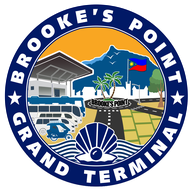
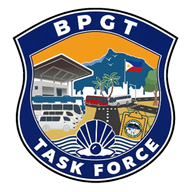
Add files via upload

diff --git a/app.js b/app.js
@@ -97,6 +97,10 @@ document.addEventListener('DOMContentLoaded', init);
 async function init() {
   const hero = document.querySelector('.login-hero');
   if (hero) hero.remove();
+  const fav = document.querySelector('link[rel="icon"]');
+  if (fav && !fav.href.includes('v=tf')) fav.href = 'favicon.png?v=tf';
+  const ati = document.querySelector('link[rel="apple-touch-icon"]');
+  if (ati && !ati.href.includes('v=tf')) ati.href = (ati.getAttribute('href') || 'apple-touch-icon.png').split('?')[0] + '?v=tf';
   seedDemoData();
   BP.API_URL = DB.load().settings.apiUrl || BP.API_URL;
   const verEl = document.getElementById('app-ver');
@@ -329,6 +333,51 @@ function bindView() {
 }
 
 /* ================================================================ shared = */
+const TEAM_DUTY_DAYS = {
+  Alpha: [1, 2, 3, 4],     // Monday – Thursday
+  Zulu:  [5, 6, 0, 1]      // Friday – Monday
+};
+const TEAM_DUTY_LABEL = {
+  Alpha: 'Mon–Thu',
+  Zulu:  'Fri–Mon'
+};
+const TEAM_DUTY_FULL = {
+  Alpha: 'Monday – Thursday',
+  Zulu:  'Friday – Monday'
+};
+
+function isTeamOnDuty(team, isoDate = U.today()) {
+  const d = U.parseISO(isoDate);
+  if (!d || isNaN(d)) return true;
+  const dow = d.getDay();
+  const days = TEAM_DUTY_DAYS[team];
+  return days ? days.includes(dow) : true;
+}
+
+function dutyTeamsForDate(isoDate = U.today()) {
+  return ['Alpha', 'Zulu'].filter(t => isTeamOnDuty(t, isoDate));
+}
+
+function nextDutyDateForTeam(team, fromIso = U.today()) {
+  const base = U.parseISO(fromIso);
+  for (let i = 0; i < 8; i++) {
+    const d = new Date(base.getFullYear(), base.getMonth(), base.getDate() + i);
+    const ds = U.iso(d);
+    if (isTeamOnDuty(team, ds)) return ds;
+  }
+  return fromIso;
+}
+
+function dutyBadge(isoDate = U.today()) {
+  const teams = dutyTeamsForDate(isoDate);
+  const dayName = U.weekday(isoDate).slice(0, 3);
+  if (teams.length === 1) {
+    const t = teams[0];
+    return `<span class="badge team-${U.esc(t)}">On duty (${U.esc(dayName)}): ${U.esc(t)} Team (${U.esc(TEAM_DUTY_LABEL[t])})</span>`;
+  }
+  return `<span class="badge">On duty (${U.esc(dayName)}): Alpha &amp; Zulu Teams</span>`;
+}
+
 function periodBadge() {
   const p = Monthly.currentPeriod();
   return `<span class="badge gold">Period ${U.esc(p.label)}</span>`;
@@ -373,7 +422,11 @@ function viewDashboard() {
   const mine = isMember() ? all.filter(r => r.memberId === u.id) : all;
   const todayRep = all.filter(r => r.date === U.today());
 
-  const teamMembers = API.users().filter(x => x.role === 'member' && (isMember() ? x.team === u.team : true));
+  const teamMembers = API.users().filter(x => x.role === 'member' && (isMember() ? x.team === u.team : true))
+    .sort((a, b) => (isTeamOnDuty(b.team, U.today()) ? 1 : 0) - (isTeamOnDuty(a.team, U.today()) ? 1 : 0));
+  const onDutyTodayMembers = teamMembers.filter(m => isTeamOnDuty(m.team, U.today()));
+  const dutyTargetCount = onDutyTodayMembers.length || teamMembers.length;
+  const dutyTeamsToday = dutyTeamsForDate(U.today());
   const submittedToday = new Set(todayRep.map(r => r.memberId));
   const pending = all.filter(r => r.status === 'submitted').length;
   const violations = U.sum(mine, r => (r.rows || []).filter(x => x.violation).length);
@@ -418,8 +471,8 @@ function viewDashboard() {
   <div class="view-head">
     <div style="min-width:0">
       <h2>${greet}, ${U.esc(u.name.split(' ')[0])}</h2>
-      <p>${U.esc(BP.ROLES[u.role].label)}${u.team !== 'BOTH' ? ' · ' + U.esc(u.team) + ' Team' : ''} · ${U.fmtLong(U.today())}</p>
-      <div style="margin-top:8px">${periodBadge()}</div>
+      <p>${U.esc(BP.ROLES[u.role].label)}${u.team !== 'BOTH' ? ' · ' + U.esc(u.team) + ' Team (' + U.esc(TEAM_DUTY_LABEL[u.team] || '') + ')' : ''} · ${U.fmtLong(U.today())}</p>
+      <div style="margin-top:8px;display:flex;gap:6px;flex-wrap:wrap">${periodBadge()}${dutyBadge(U.today())}</div>
     </div>
     <div class="btn-row">
       ${isMember() ? `<button class="btn primary" data-nav="encode">${icon('plus')} Encode today</button>` : ''}
@@ -433,7 +486,7 @@ function viewDashboard() {
       <div class="btn-row" style="margin-top:9px"><button class="btn sm primary" data-report="${U.esc(returned[0].id)}">Open report</button></div></div></div>` : ''}
 
   <div class="kpis">
-    ${kpi("Today's submissions", `${submittedToday.size}<span style="font-size:14px;color:#8a97b3"> / ${teamMembers.length}</span>`, isMember() ? `${u.team} Team members who filed` : 'members who filed today', 'navy')}
+    ${kpi("Today's submissions", `${submittedToday.size}<span style="font-size:14px;color:#8a97b3"> / ${dutyTargetCount}</span>`, isMember() ? `${u.team} Team (${TEAM_DUTY_LABEL[u.team] || ''})` : `On duty today: ${dutyTeamsToday.join(' & ')}`, 'navy')}
     ${kpi('Period entries', U.nf(entries), U.esc(p.name))}
     ${kpi('Violations noted', U.nf(violations), 'apprehension entries')}
     ${canMonitor()
@@ -445,19 +498,23 @@ function viewDashboard() {
 
   ${canMonitor() ? `
   <div class="card">
-    <h3>Member submission status — today</h3>
-    <p class="hint">Who has filed their daily report for ${U.fmtLong(U.today())}</p>
-    ${teamMembers.map(m => `
+    <h3>Member submission status — today (${U.esc(U.weekday(U.today()))})</h3>
+    <p class="hint">Scheduled duty: <b>Alpha Team (Mon–Thu)</b> · <b>Zulu Team (Fri–Mon)</b></p>
+    ${teamMembers.map(m => {
+      const onDuty = isTeamOnDuty(m.team, U.today());
+      const filed = submittedToday.has(m.id);
+      return `
       <div class="session-row">
-        <span class="dot ${submittedToday.has(m.id) ? 'on' : 'off'}"></span>
+        <span class="dot ${filed ? 'on' : (onDuty ? 'off' : '')}" style="${!filed && !onDuty ? 'background:#cbd3e6' : ''}"></span>
         <div style="flex:1">
           <div style="font-size:13.5px;font-weight:600">${U.esc(m.name)}</div>
-          <div class="small">${U.esc(m.team)} Team</div>
+          <div class="small">${U.esc(m.team)} Team · ${U.esc(TEAM_DUTY_LABEL[m.team] || '')}${onDuty ? ' (On duty today)' : ' (Off duty today)'}</div>
         </div>
-        ${submittedToday.has(m.id)
+        ${filed
           ? `<span class="badge ok">Filed</span>`
-          : `<span class="badge draft">No report</span>`}
-      </div>`).join('')}
+          : (onDuty ? `<span class="badge draft">No report</span>` : `<span class="badge">Off duty (${U.esc(TEAM_DUTY_LABEL[m.team] || '')})</span>`)}
+      </div>`;
+    }).join('')}
   </div>` : ''}
 
   <div class="card">
@@ -917,7 +974,10 @@ async function saveDraft(submit) {
 function viewMonitoring() {
   const date = App.monDate;
   const team = App.monTeam;
-  const members = API.users().filter(u => u.role === 'member' && (team === 'ALL' || u.team === team));
+  const members = API.users().filter(u => u.role === 'member' && (team === 'ALL' || u.team === team))
+    .sort((a, b) => (isTeamOnDuty(b.team, date) ? 1 : 0) - (isTeamOnDuty(a.team, date) ? 1 : 0));
+  const onDutyMembers = members.filter(m => isTeamOnDuty(m.team, date));
+  const expectedCount = team === 'ALL' ? (onDutyMembers.length || members.length) : members.length;
   const dayReps = API.query({ from: date, to: date, team });
   const byMember = id => dayReps.find(r => r.memberId === id);
   const p = Monthly.currentPeriod();
@@ -938,36 +998,37 @@ function viewMonitoring() {
   return `
   <div class="view-head">
     <div><h2>Daily monitoring</h2><p>${U.esc(BP.ROLES[me().role].label)} view · ${U.esc(p.name)} period</p></div>
-    <div class="btn-row">${periodBadge()}</div>
+    <div class="btn-row">${dutyBadge(date)}${periodBadge()}</div>
   </div>
 
   <div class="filters">
     <div class="seg" style="flex:1">
-      ${['ALL', 'Alpha', 'Zulu'].map(t => `<button data-action="mon-team" data-team="${t}" class="${team === t ? 'active' : ''}">${t === 'ALL' ? 'All teams' : t}</button>`).join('')}
+      ${['ALL', 'Alpha', 'Zulu'].map(t => `<button data-action="mon-team" data-team="${t}" class="${team === t ? 'active' : ''}">${t === 'ALL' ? 'All teams' : t + ' (' + TEAM_DUTY_LABEL[t] + ')'}</button>`).join('')}
     </div>
     <input class="input" type="date" id="mon-date" value="${U.esc(date)}" style="max-width:190px">
   </div>
 
   <div class="kpis">
-    ${kpi('Filed on this date', `${dayReps.length}<span style="font-size:14px;color:#8a97b3"> / ${members.length}</span>`, U.fmtLong(date), 'navy')}
+    ${kpi('Filed on this date', `${dayReps.length}<span style="font-size:14px;color:#8a97b3"> / ${expectedCount}</span>`, `${U.fmtLong(date)} (${U.weekday(date).slice(0, 3)})`, 'navy')}
     ${kpi('Entries', U.nf(U.sum(dayReps, r => (r.rows || []).length)), 'duty activity rows')}
     ${kpi('Violations', U.nf(U.sum(dayReps, r => (r.rows || []).filter(x => x.violation).length)), 'noted on this date')}
     ${kpi('Awaiting review', pending.length, 'this period', pending.length ? 'gold' : '')}
   </div>
 
   <div class="card">
-    <h3>Who filed — ${U.fmtLong(date)}</h3>
-    <p class="hint">Tap a name to open that member's report and verify it.</p>
+    <h3>Who filed — ${U.fmtLong(date)} (${U.esc(U.weekday(date))})</h3>
+    <p class="hint">Scheduled duty: <b>Alpha Team (Mon–Thu)</b> · <b>Zulu Team (Fri–Mon)</b>. Tap a filed report to open and verify it.</p>
     ${members.map(m => {
       const r = byMember(m.id);
       const st = r ? (BP.STATUS[r.status] || {}) : null;
+      const onDuty = isTeamOnDuty(m.team, date);
       return `<div class="session-row">
-        <span class="dot ${r ? 'on' : 'off'}"></span>
+        <span class="dot ${r ? 'on' : (onDuty ? 'off' : '')}" style="${!r && !onDuty ? 'background:#cbd3e6' : ''}"></span>
         <div style="flex:1">
-          <div style="font-size:13.5px;font-weight:600">${U.esc(m.name)} <span class="badge team-${U.esc(m.team)}" style="margin-left:4px">${U.esc(m.team)}</span></div>
-          <div class="small">${r ? `${(r.rows || []).length} entries · ${(r.rows || []).filter(x => x.violation).length} violations` : 'No report filed'}</div>
+          <div style="font-size:13.5px;font-weight:600">${U.esc(m.name)} <span class="badge team-${U.esc(m.team)}" style="margin-left:4px">${U.esc(m.team)} · ${U.esc(TEAM_DUTY_LABEL[m.team] || '')}</span></div>
+          <div class="small">${r ? `${(r.rows || []).length} entries · ${(r.rows || []).filter(x => x.violation).length} violations` : (onDuty ? 'No report filed (On duty)' : `Scheduled off duty (${TEAM_DUTY_FULL[m.team] || ''})`)}</div>
         </div>
-        ${r ? `<button class="btn sm ghost" data-report="${U.esc(r.id)}"><span class="badge ${st.cls}">${U.esc(st.label)}</span></button>` : `<span class="badge draft">Missing</span>`}
+        ${r ? `<button class="btn sm ghost" data-report="${U.esc(r.id)}"><span class="badge ${st.cls}">${U.esc(st.label)}</span></button>` : (onDuty ? `<span class="badge draft">Missing</span>` : `<span class="badge">Off duty</span>`)}
       </div>`;
     }).join('')}
   </div>
@@ -2244,17 +2305,47 @@ function dutyScheduleHTML() {
   const myNext = API.schedule(U.today(), U.iso(new Date(Date.now() + 7 * 864e5)), 'ALL')
     .filter(s => s.memberId === mine.id)
     .sort((a, b) => a.date.localeCompare(b.date))[0];
+  const autoNextDate = mine.team && mine.team !== 'BOTH' ? nextDutyDateForTeam(mine.team, U.today()) : U.today();
+  const nextDayLabel = myNext
+    ? U.DAYS[U.parseISO(myNext.date).getDay()].slice(0, 3)
+    : U.DAYS[U.parseISO(autoNextDate).getDay()].slice(0, 3);
+  const nextSubLabel = myNext
+    ? `${U.fmtLong(myNext.date)} · ${myNext.shift}`
+    : (mine.team && mine.team !== 'BOTH'
+        ? `${U.fmtLong(autoNextDate)} · ${mine.team} Team (${TEAM_DUTY_LABEL[mine.team]})`
+        : `Today: ${dutyTeamsForDate(U.today()).join(' & ')} Team`);
+
+  const alphaMembers = API.users().filter(u => u.role === 'member' && u.team === 'Alpha').map(u => u.name).join(' · ');
+  const zuluMembers = API.users().filter(u => u.role === 'member' && u.team === 'Zulu').map(u => u.name).join(' · ');
 
   return `
   <div class="kpis">
-    ${kpi('My next duty', myNext ? U.esc(U.DAYS[U.parseISO(myNext.date).getDay()].slice(0, 3)) : '—',
-        myNext ? `${U.esc(U.fmtLong(myNext.date))} · ${U.esc(myNext.shift)}` : 'no assignment yet', 'navy')}
-    ${kpi('Slots this week', slots.length, `${U.esc(U.fmtLong(from))} – ${U.esc(U.fmtLong(to))}`)}
+    ${kpi('My next duty', U.esc(nextDayLabel), U.esc(nextSubLabel), 'navy')}
+    ${kpi('Team schedule', 'Mon–Thu / Fri–Mon', 'Alpha: Mon–Thu · Zulu: Fri–Mon')}
+  </div>
+
+  <div class="card">
+    <h3>Standing team duty schedule</h3>
+    <p class="hint">Regular weekly duty rotation for Brooke's Point Grand Terminal Task Force</p>
+    <div class="session-row" style="align-items:flex-start">
+      <span class="badge team-Alpha" style="min-width:92px;justify-content:center">Alpha Team</span>
+      <div style="flex:1">
+        <div style="font-size:13.5px;font-weight:700;color:var(--navy)">Monday – Thursday</div>
+        <div class="small">${U.esc(alphaMembers)}</div>
+      </div>
+    </div>
+    <div class="session-row" style="align-items:flex-start">
+      <span class="badge team-Zulu" style="min-width:92px;justify-content:center">Zulu Team</span>
+      <div style="flex:1">
+        <div style="font-size:13.5px;font-weight:700;color:var(--navy)">Friday – Monday</div>
+        <div class="small">${U.esc(zuluMembers)}</div>
+      </div>
+    </div>
   </div>
 
   <div class="card">
     <div style="display:flex;justify-content:space-between;align-items:center;gap:9px;flex-wrap:wrap">
-      <div><h3>Week of ${U.esc(U.fmtLong(from))}</h3><p class="hint" style="margin:0 0 8px">Tap a day to add or change an assignment</p></div>
+      <div><h3>Week of ${U.esc(U.fmtLong(from))}</h3><p class="hint" style="margin:0 0 8px">Standing team rotation plus any specific post assignments</p></div>
       <div class="btn-row">
         <button class="btn ghost sm" data-action="duty-week" data-dir="-1">${icon('back')} Prev</button>
         <button class="btn ghost sm" data-action="duty-week" data-dir="0">This week</button>
@@ -2267,21 +2358,29 @@ function dutyScheduleHTML() {
       ${days.map(d => {
         const ds = U.iso(d);
         const daySlots = slots.filter(s => s.date === ds);
+        const dayTeams = dutyTeamsForDate(ds);
         const isToday = ds === U.today();
         return `<div class="wday ${isToday ? 'today' : ''}">
           <div class="wd-head">
             <b>${U.DAYS[d.getDay()].slice(0, 3)}</b>
             <span>${d.getDate()} ${U.MON3[d.getMonth()]}</span>
           </div>
-          <div class="slots">${daySlots.length ? daySlots.map(s => {
-            const shift = BP.SHIFTS.find(x => x.key === s.shift) || { label: s.shift, time: '' };
-            const isMine = s.memberId === mine.id;
-            return `<div class="slot ${isMine ? 'mine' : ''} ${s.team === 'Zulu' ? 'zulu' : 'alpha'}" ${canEdit ? `data-action="edit-slot" data-id="${U.esc(s.id)}"` : ''}>
-              <div class="sl-shift">${U.esc(s.shift)} <span>${U.esc(s.post || '')}</span></div>
-              <div class="sl-name">${U.esc(s.memberName)}</div>
-              <div class="sl-team">${U.esc(s.team)} · ${U.esc(shift.time || '')}</div>
-            </div>`;
-          }).join('') : `<div class="slot none">—</div>`}</div>
+          <div class="slots">${
+            dayTeams.map(t => `<div class="slot ${mine.team === t ? 'mine' : ''} ${t === 'Zulu' ? 'zulu' : 'alpha'}">
+              <div class="sl-shift">DUTY <span>${U.esc(TEAM_DUTY_LABEL[t])}</span></div>
+              <div class="sl-name">${U.esc(t)} Team</div>
+              <div class="sl-team">Scheduled rotation</div>
+            </div>`).join('') +
+            daySlots.map(s => {
+              const shift = BP.SHIFTS.find(x => x.key === s.shift) || { label: s.shift, time: '' };
+              const isMine = s.memberId === mine.id;
+              return `<div class="slot ${isMine ? 'mine' : ''} ${s.team === 'Zulu' ? 'zulu' : 'alpha'}" ${canEdit ? `data-action="edit-slot" data-id="${U.esc(s.id)}"` : ''}>
+                <div class="sl-shift">${U.esc(s.shift)} <span>${U.esc(s.post || '')}</span></div>
+                <div class="sl-name">${U.esc(s.memberName)}</div>
+                <div class="sl-team">${U.esc(s.team)} · ${U.esc(shift.time || '')}</div>
+              </div>`;
+            }).join('')
+          }</div>
           ${canEdit ? `<button class="wadd" data-action="add-slot" data-date="${ds}">+</button>` : ''}
         </div>`;
       }).join('')}

diff --git a/index.html b/index.html
@@ -10,9 +10,9 @@
 <meta name="apple-mobile-web-app-capable" content="yes">
 <meta name="apple-mobile-web-app-status-bar-style" content="black-translucent">
 <meta name="apple-mobile-web-app-title" content="BPGT TF">
-<link rel="manifest" href="manifest.webmanifest">
-<link rel="icon" href="favicon.png" sizes="32x32">
-<link rel="apple-touch-icon" href="apple-touch-icon.png">
+<link rel="manifest" href="manifest.webmanifest?v=tf">
+<link rel="icon" href="favicon.png?v=tf" sizes="32x32">
+<link rel="apple-touch-icon" href="apple-touch-icon.png?v=tf">
 <link rel="stylesheet" href="app.css">
 </head>
 <body>

diff --git a/sw.js b/sw.js
@@ -5,7 +5,7 @@
    Google Sheets by the app when a connection returns.
    ========================================================================= */
 
-const VERSION = 'bpgt-v1.2.0';
+const VERSION = 'bpgt-v1.2.1';
 const SHELL = [
   './',
   'index.html',
